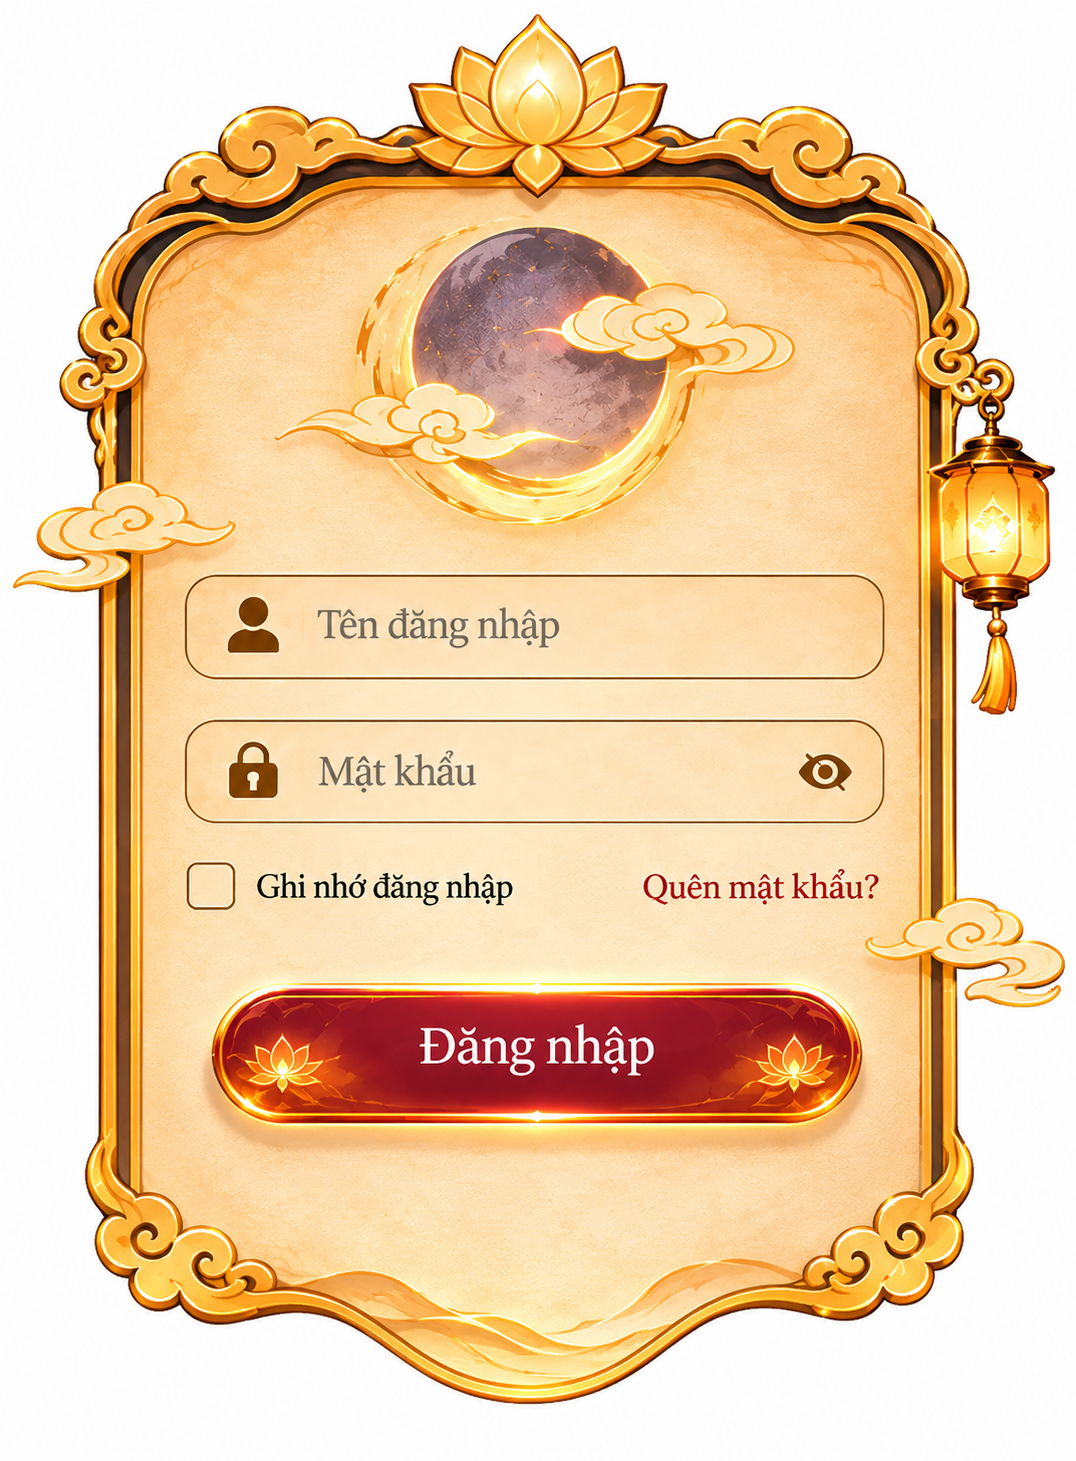
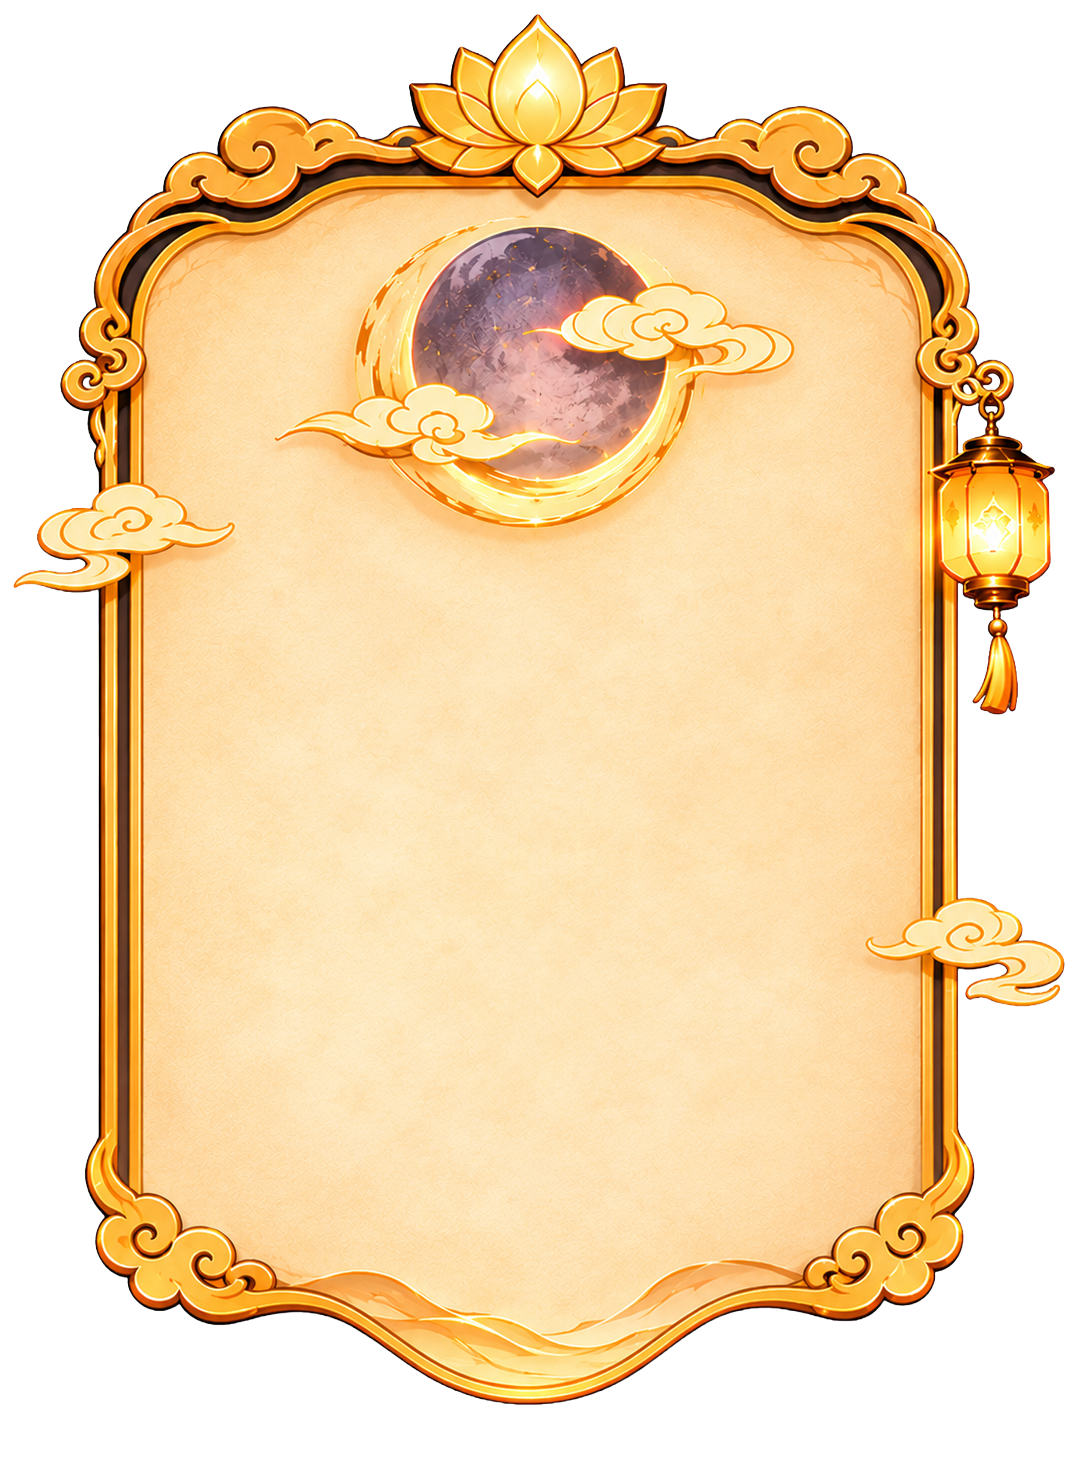
update login

Changed region(s): [[0.0307, 0.0308, 1.0, 0.9856], [0.4907, 0.0, 0.5214, 0.0308]]

diff --git a/pages/login/index.vue b/pages/login/index.vue
@@ -1,66 +1,91 @@
 <template>
     <ContainerWithBackground src="/login/lg.png" aria-label="Quần đảo Góc An Nhiên" background-size="cover"
-        :offset-top="0">
+        :offset-top="0" custom-class="login-scene">
+        <main class="login-screen" aria-label="Đăng nhập Góc An Nhiên">
+            <section class="login-composition">
+                <div class="login-frame">
+                    <!-- login form -->
+                    <!-- <form class="login-form" @submit.prevent="handleLogin">
+                        <label class="sr-only" for="login-username">Tên đăng nhập</label>
+                        <input id="login-username" v-model.trim="username" class="login-input username-input"
+                            type="text" name="username" placeholder="Tên đăng nhập" autocomplete="username" required />
+
+                        <label class="sr-only" for="login-password">Mật khẩu</label>
+                        <div class="password-field">
+                            <input id="login-password" v-model="password" class="login-input"
+                                :type="showPassword ? 'text' : 'password'" name="password" placeholder="Mật khẩu"
+                                autocomplete="current-password" required />
+                            <button class="password-toggle" type="button"
+                                :aria-label="showPassword ? 'Ẩn mật khẩu' : 'Hiện mật khẩu'"
+                                @click="showPassword = !showPassword">
+                                {{ showPassword ? 'Ẩn' : '◉' }}
+                            </button>
+                        </div>
+
+                        <div class="login-options">
+                            <label class="remember-option">
+                                <input v-model="rememberLogin" type="checkbox" name="remember" />
+                                <span>Ghi nhớ đăng nhập</span>
+                            </label>
+                            <button class="forgot-link" type="button" @click="goToForgotPassword">
+                                Quên mật khẩu?
+                            </button>
+                        </div>
+
+                        <p v-if="errorMessage" class="login-error" role="alert">{{ errorMessage }}</p>
+                        <button class="submit-button" type="submit" :disabled="isLoading">
+                            {{ isLoading ? 'Đang đăng nhập…' : 'Đăng nhập' }}
+                        </button>
+                    </form> -->
+                </div>
+            </section>
+        </main>
+        <div class="prayer-monk">
+            <Image src="/login/prayer.png" alt="Chú tiểu chắp tay cầu nguyện" />
+        </div>
     </ContainerWithBackground>
 </template>
 
 <script setup>
-
-definePageMeta({
-    layout: "login_layout"
-})
-
-import { ref, onMounted } from 'vue';
-import { useRouter, useRoute } from 'vue-router';
-import ParallaxScrolling from '~/components/anim/ParallaxScrolling.vue';
-import Bounce from '~/components/effects/Bounce.vue';
+import { onMounted, ref } from 'vue';
+import { useRouter } from 'vue-router';
 import ContainerWithBackground from '~/components/layout/ContainerWithBackground.vue';
+import { useAuth } from '~/composables/useAuth';
+
+definePageMeta({ layout: 'login_layout' });
 
 const router = useRouter();
-const route = useRoute();
+const { login, isLoading } = useAuth();
+const username = ref('');
+const password = ref('');
+const rememberLogin = ref(false);
+const showPassword = ref(false);
+const errorMessage = ref('');
 
-const { $common } = useNuxtApp();
-
-const audioRef = ref(null);
-const isNavigatingHome = ref(false);
-
-const handleMoClick = async () => {
-    if (isNavigatingHome.value) return;
-    isNavigatingHome.value = true;
-
-    // $common.showSuccess('Mõ đã vang lên!');
-    const audio = audioRef.value;
-
-    if (!audio) {
-        return router.push('/home');
+onMounted(() => {
+    const rememberedUsername = localStorage.getItem('remember_login');
+    if (rememberedUsername) {
+        username.value = rememberedUsername;
+        rememberLogin.value = true;
     }
+});
 
-    audio.currentTime = 0;
-    const goHome = () => {
-        router.push('/home');
-    };
-
-    audio.addEventListener('ended', goHome, { once: true });
-
+const handleLogin = async () => {
+    errorMessage.value = '';
     try {
-        await audio.play();
-    } catch {
-        audio.removeEventListener('ended', goHome);
-        goHome();
+        await login(username.value, password.value);
+        if (rememberLogin.value && process.client) {
+            localStorage.setItem('remember_login', username.value);
+        } else if (process.client) {
+            localStorage.removeItem('remember_login');
+        }
+        await router.push('/home');
+    } catch (error) {
+        errorMessage.value = error?.response?.data?.message || 'Đăng nhập thất bại. Vui lòng kiểm tra thông tin.';
     }
 };
 
-const REDIRECT_URI = window.location.origin + '/login/';
-
-const config = useRuntimeConfig()
-const GOOGLE_CLIENT_ID = config.public.googleClientId;
-
-const loginBackground = ref('/login/login_v2.png');
-const loginBoard = ref('login-board');
-
-// Check for Google OAuth callback on mount
-onMounted(async () => {
-});
+const goToForgotPassword = () => router.push('/forgot-password');
 </script>
 
 <style scoped src="./index.css"></style>

diff --git a/pages/login/index.css b/pages/login/index.css
@@ -1,41 +1,223 @@
-.login-container {
-    width: 100vw;
-    height: 100vh;
-    background-color: #d2c1b8;
-    display: flex;
-    justify-content: start;
+:global(html),
+:global(body),
+:global(#__nuxt) {
+    min-height: 100%;
     margin: 0;
-    padding: 0;
+}
+
+:global(.login-scene) {
+    min-height: 100svh;
     overflow: hidden;
 }
 
-.main-object {
-    /* transform: scaleX(-1); */
-    transform: scale(1.2);
-    margin: 0;
+.login-screen {
+    position: relative;
+    min-height: 100svh;
+    overflow: hidden;
 }
 
-.labelText {
-    font-family: Lora;
-    font-weight: 800;
-    font-size: 30px;
-    text-transform: uppercase;
-    color: white;
-    text-align: center;
-    text-shadow: 3px 3px 4px rgba(0, 0, 0, 0.7);
+.login-composition {
+    position: absolute;
+    top: 11.8%;
+    left: 50%;
+    width: min(82vw, 46vh, 440px);
+    aspect-ratio: 1076 / 1461;
+    transform: translateX(-50%);
 }
 
-.smallText {
-    font-family: Lora;
-    font-weight: 600;
-    font-size: 14px;
-    text-transform: uppercase;
-    color: white;
-    text-align: center;
-}
-
-.mainLoading {
+.login-frame {
+    position: absolute;
+    inset: 0;
     width: 100%;
+    height: 100%;
+    background-image: url('/login/formlogin.png');
+    background-position: center;
+    background-repeat: no-repeat;
+    background-size: 100% 100%;
+    user-select: none;
+}
+
+.login-form {
+    position: absolute;
+    top: 40.5%;
+    left: 13%;
+    width: 80%;
+    height: 47%;
+    color: #512d18;
+    font-family: Georgia, 'Times New Roman', serif;
+}
+
+.login-input {
+    display: block;
+    box-sizing: border-box;
+    width: 100%;
+    height: 16%;
+    padding: 0 13% 0 17%;
+    border: 1.5px solid rgba(133, 77, 27, 0.55);
+    border-radius: 999px;
+    outline: none;
+    color: #57351f;
+    background: rgba(255, 232, 190, 0.2);
+    box-shadow: inset 0 1px 3px rgba(108, 62, 24, 0.08);
+    font: 600 clamp(15px, 4.2vw, 24px)/1 Georgia, 'Times New Roman', serif;
+}
+
+.login-input::placeholder {
+    color: rgba(87, 65, 49, 0.78);
+    opacity: 1;
+}
+
+.login-input:focus-visible {
+    border-color: #a5511c;
+    box-shadow: 0 0 0 3px rgba(255, 186, 67, 0.28);
+}
+
+.username-input {
+    margin-bottom: 4.5%;
+}
+
+.password-field {
+    position: relative;
+    height: 16%;
+}
+
+.password-field .login-input {
+    height: 100%;
+}
+
+.password-toggle {
     position: absolute;
     top: 50%;
+    right: 5%;
+    padding: 4px;
+    transform: translateY(-50%);
+    border: 0;
+    color: #754316;
+    background: transparent;
+    font: 700 clamp(13px, 3.7vw, 19px)/1 Arial, sans-serif;
+    cursor: pointer;
+}
+
+.login-options {
+    position: absolute;
+    top: 51%;
+    left: 0;
+    display: flex;
+    width: 100%;
+    align-items: center;
+    justify-content: space-between;
+    gap: 5px;
+    white-space: nowrap;
+    font-size: clamp(10px, 3.15vw, 18px);
+}
+
+.remember-option {
+    display: inline-flex;
+    align-items: center;
+    gap: 7px;
+    cursor: pointer;
+}
+
+.remember-option input {
+    width: clamp(16px, 5.2vw, 24px);
+    height: clamp(16px, 5.2vw, 24px);
+    margin: 0;
+    accent-color: #8e2c16;
+    cursor: pointer;
+}
+
+.forgot-link {
+    padding: 3px 0;
+    border: 0;
+    color: #8d241b;
+    background: transparent;
+    font-family: inherit;
+    font-size: inherit;
+    font-weight: 700;
+    cursor: pointer;
+}
+
+.forgot-link:hover,
+.forgot-link:focus-visible {
+    text-decoration: underline;
+}
+
+.login-error {
+    position: absolute;
+    top: 57%;
+    left: 2%;
+    width: 96%;
+    margin: 0;
+    color: #9b1c13;
+    font: 600 clamp(10px, 2.8vw, 15px)/1.2 Arial, sans-serif;
+    text-align: center;
+}
+
+.submit-button {
+    position: absolute;
+    top: 72%;
+    left: 4%;
+    width: 92%;
+    height: 19%;
+    border: 2px solid #ffd45a;
+    border-radius: 999px;
+    color: #fff5dc;
+    background: linear-gradient(180deg, #b4211a 0%, #7c0f18 100%);
+    box-shadow: inset 0 1px 3px rgba(255, 238, 154, 0.8), 0 3px 8px rgba(111, 38, 12, 0.22);
+    font: 700 clamp(20px, 6vw, 32px)/1 Georgia, 'Times New Roman', serif;
+    text-shadow: 0 1px 2px rgba(69, 16, 8, 0.5);
+    cursor: pointer;
+}
+
+.submit-button:hover:not(:disabled) {
+    background: linear-gradient(180deg, #c42e20 0%, #8b1219 100%);
+}
+
+.submit-button:active:not(:disabled) {
+    transform: translateY(1px);
+}
+
+.submit-button:disabled {
+    opacity: 0.72;
+    cursor: wait;
+}
+
+.prayer-monk {
+    position: absolute;
+    z-index: 1;
+    left: -5%;
+    bottom: 14%;
+    width: 45%;
+    height: auto;
+    pointer-events: none;
+    user-select: none;
+}
+
+.sr-only {
+    position: absolute;
+    width: 1px;
+    height: 1px;
+    padding: 0;
+    margin: -1px;
+    overflow: hidden;
+    clip: rect(0, 0, 0, 0);
+    white-space: nowrap;
+    border: 0;
+}
+
+@media (max-height: 680px) {
+    .login-composition {
+        top: 6%;
+        width: min(76vw, 78vh, 440px);
+    }
+}
+
+@media (min-width: 600px) {
+    .login-composition {
+        width: min(76vw, 58vh, 480px);
+    }
+
+    .login-form {
+        font-size: 20px;
+    }
 }
